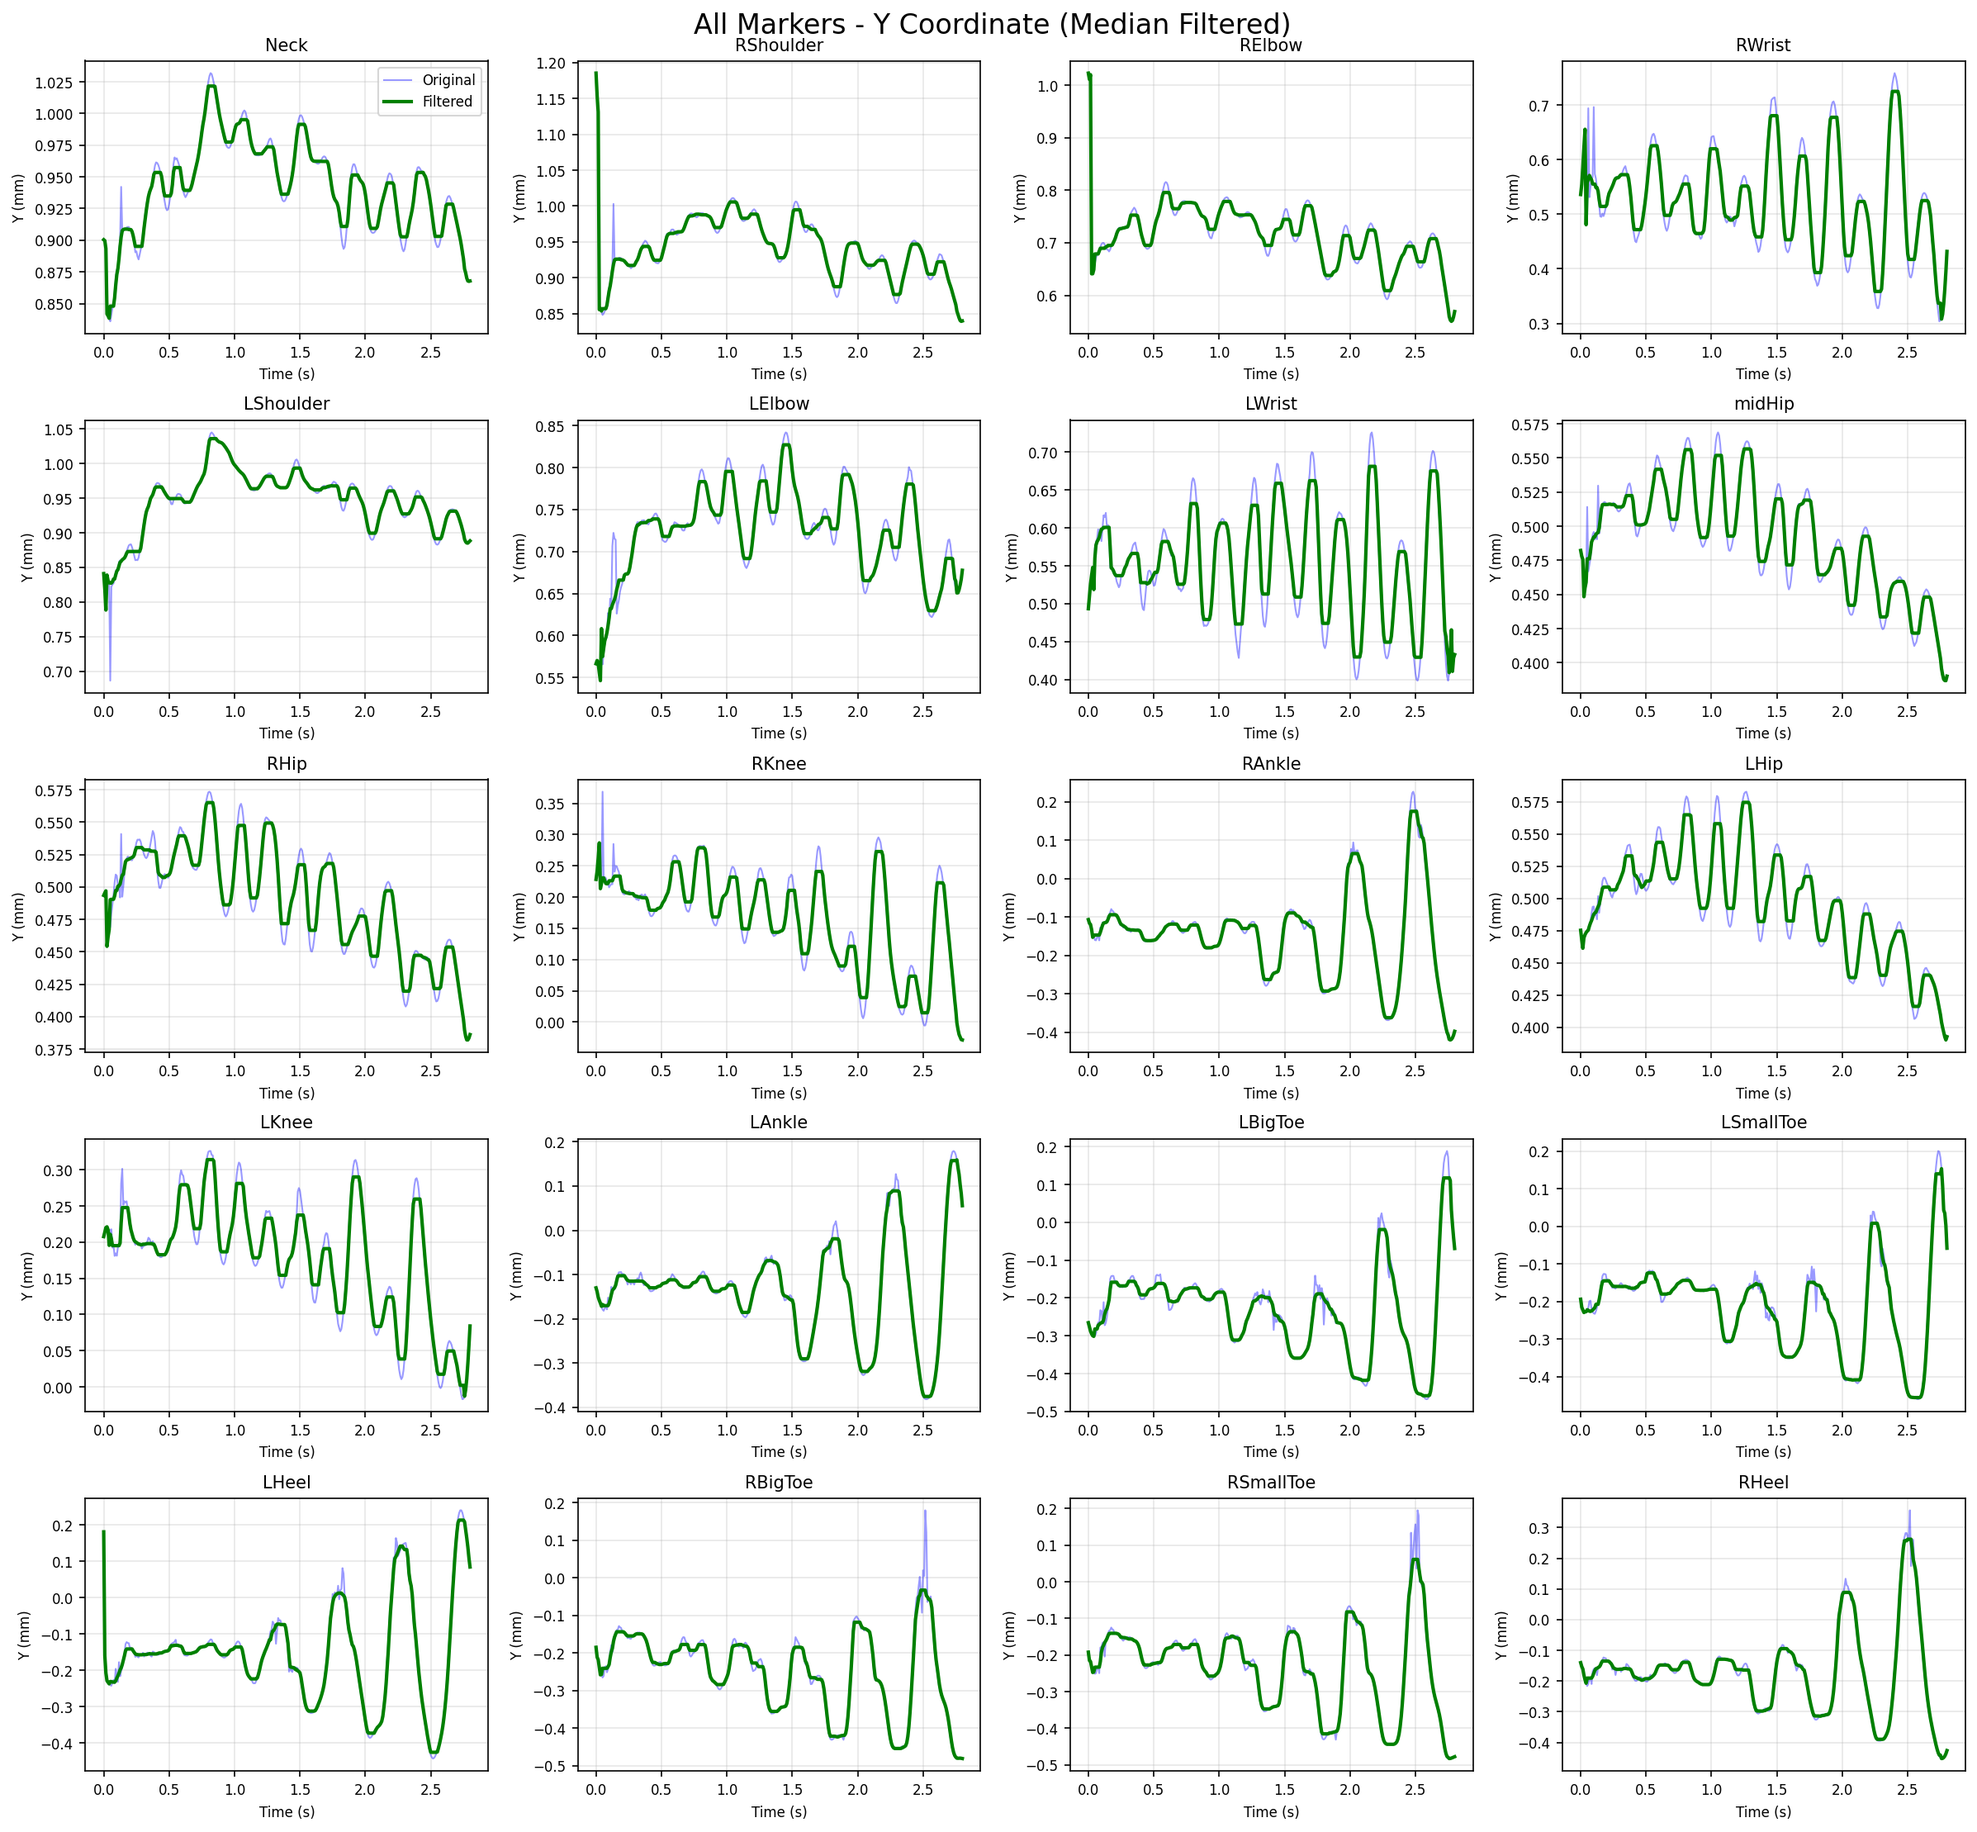
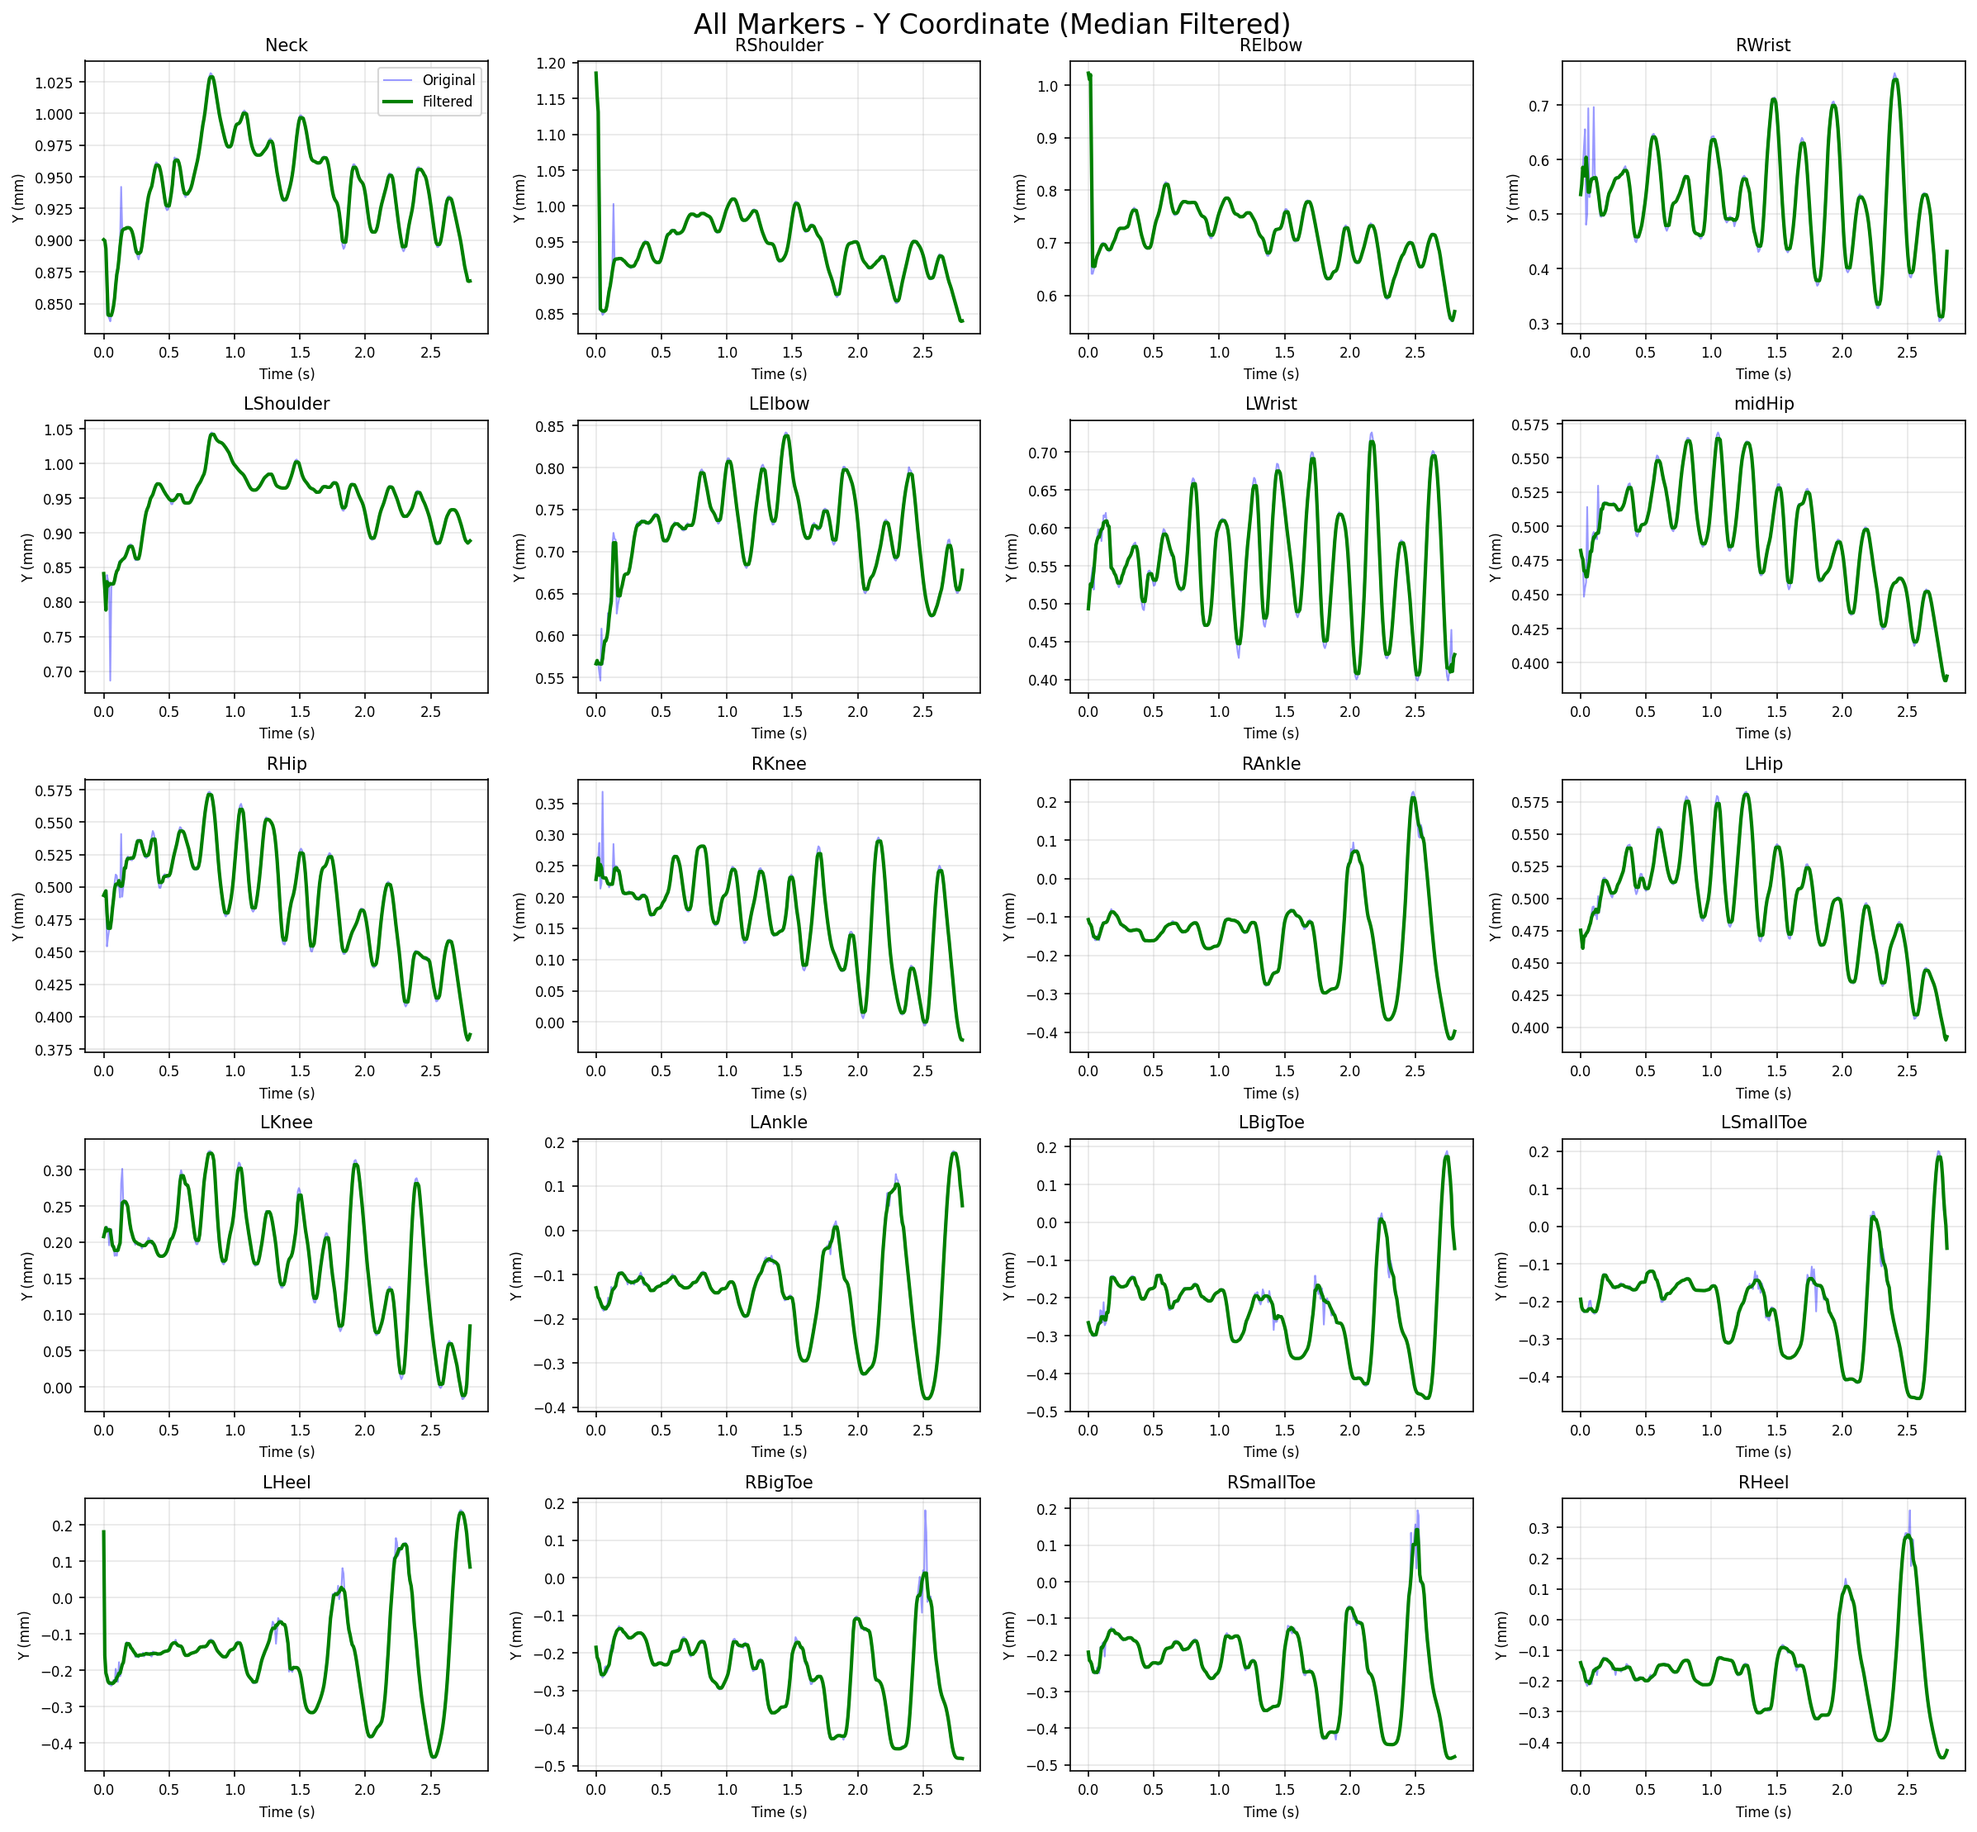
More median filter and adding it to main

diff --git a/utilsTRC.py b/utilsTRC.py
@@ -26,3 +26,73 @@ def trc_2_dict(trc_path):
         markers[name] = trc.marker(name)
     out['markers'] = markers
     return out
+
+def dict_2_trc(trc_file_path, data, time, output_path):
+    """
+    Write marker data from dictionary format back to TRC file.
+    
+    Parameters:
+    -----------
+    trc_file_path : str
+        Path to original TRC file (to copy header information)
+    data : dict
+        Dictionary containing 'time' and 'markers' keys
+    output_path : str
+        Path where the new TRC file will be saved
+    """
+    # Read original file to get header information
+    with open(trc_file_path, 'r') as f:
+        lines = f.readlines()
+    
+    # Extract header lines (first 5 lines typically)
+    header_lines = lines[:5]
+    
+    # Get data
+    time = time
+    # Get data
+    markers = data  # data is already the markers dictionary
+    marker_list = list(markers.keys())
+    
+    n_frames = len(time)
+    n_markers = len(marker_list)
+    
+    # Update header line 4 with correct marker count and names
+    # Format: Frame#  Time  marker1    marker1    marker1    marker2    marker2    marker2 ...
+    marker_names_line = "Frame#\tTime\t" + "\t\t\t".join(marker_list) + "\n"
+    header_lines[3] = marker_names_line
+    
+    # Update header line 5 with X, Y, Z labels
+    xyz_line = "\t\t" + "\t".join(["X" + str(i+1) + "\tY" + str(i+1) + "\tZ" + str(i+1) 
+                                    for i in range(n_markers)]) + "\n"
+    header_lines[4] = xyz_line
+    
+    # Update header line 3 with frame info
+    # Format: DataRate CameraRate NumFrames NumMarkers Units OrigDataRate OrigDataStartFrame OrigNumFrames
+    header_parts = header_lines[2].strip().split('\t')
+    if len(header_parts) >= 3:
+        header_parts[2] = str(n_frames)  # Update NumFrames
+        header_parts[3] = str(n_markers)  # Update NumMarkers
+        header_lines[2] = '\t'.join(header_parts) + '\n'
+    
+    # Write to new file
+    with open(output_path, 'w') as f:
+        # Write header
+        f.writelines(header_lines)
+        
+        # Write data
+        for frame_idx in range(n_frames):
+            # Frame number and time
+            line = f"{frame_idx + 1}\t{time[frame_idx]:.6f}\t"
+            
+            # Add marker coordinates
+            coords = []
+            for marker_name in marker_list:
+                marker_data = markers[marker_name][frame_idx, :]
+                coords.extend([f"{marker_data[0]:.6f}", 
+                              f"{marker_data[1]:.6f}", 
+                              f"{marker_data[2]:.6f}"])
+            
+            line += "\t".join(coords) + "\n"
+            f.write(line)
+    
+    print(f"Successfully saved filtered TRC file to: {output_path}")

diff --git a/utilsPlotting.py b/utilsPlotting.py
@@ -118,3 +118,66 @@ def plot_all_markers_all_coords(markers, filtered_all, time, marker_list,
             coord_idx=coord_idx,
             save_path=f'all_markers_{coord_name}_filtered.png' if save_path else None
         )
+
+def plot_all_markers_all_coords_one(markers, filtered_all, time, marker_list, 
+                                save_path=None):
+    """
+    Plot all markers with x, y, z coordinates on the same subplot.
+    x in red, y in green, z in blue
+    Dotted lines for pre-filtered data, solid lines for post-filtered data.
+    """
+    n_markers = len(marker_list)
+    
+    # Calculate grid dimensions
+    n_cols = 3
+    n_rows = int(np.ceil(n_markers / n_cols))
+    
+    # Create figure with subplots
+    fig, axes = plt.subplots(n_rows, n_cols, figsize=(15, 5 * n_rows))
+    
+    # Flatten axes array for easier indexing
+    if n_markers == 1:
+        axes = np.array([axes])
+    elif n_rows == 1:
+        axes = np.array(axes)
+    else:
+        axes = axes.flatten()
+    
+    # Colors for x, y, z
+    colors = ['red', 'green', 'blue']
+    coord_names = ['X', 'Y', 'Z']
+    
+    # Plot each marker
+    for marker_idx, marker_name in enumerate(marker_list):
+        ax = axes[marker_idx]
+        
+        # Plot each coordinate (x, y, z)
+        for coord_idx in range(3):
+            # Pre-filtered data (dotted line)
+            ax.plot(time, markers[marker_name][:, coord_idx], 
+                   linestyle=':', color=colors[coord_idx], 
+                   alpha=0.6, linewidth=1,
+                   label=f'{coord_names[coord_idx]} (pre-filter)')
+            
+            # Post-filtered data (solid line)
+            ax.plot(time, filtered_all[marker_name][:, coord_idx], 
+                   linestyle='-', color=colors[coord_idx], 
+                   linewidth=2,
+                   label=f'{coord_names[coord_idx]} (filtered)')
+        
+        ax.set_title(f'{marker_name}', fontsize=12, fontweight='bold')
+        ax.set_xlabel('Time (s)')
+        ax.set_ylabel('Position (mm)')
+        ax.legend(loc='best', fontsize=8)
+        ax.grid(True, alpha=0.3)
+    
+    # Hide any unused subplots
+    for idx in range(n_markers, len(axes)):
+        axes[idx].axis('off')
+    
+    plt.tight_layout()
+    
+    if save_path:
+        plt.savefig(save_path, dpi=300, bbox_inches='tight')
+        print(f"Saved plot to {save_path}")
+    

diff --git a/utilsMedian.py b/utilsMedian.py
@@ -19,8 +19,8 @@ def median_window_filter(x, window):
         y       <-  median filtered signal
     """
     if window % 2:
-        window = window - 1
-    win2 = int(window / 2)
+        window = window - 1 # Making the window even for equal points on left and right 
+    win2 = int(window / 2) # Now win2 is always an integer
     n = len(x)
     y = np.array(x, dtype=float)
     
@@ -50,7 +50,9 @@ def median_filter_trajectory(marker_data, window=7, return_outliers=False):
         Median filtered trajectory
     """
     marker_data = np.asarray(marker_data, dtype=float)
-    
+
+    print(marker_data.ndim, marker_data.shape)
+
     if marker_data.ndim != 2 or marker_data.shape[1] != 3:
         raise ValueError(f"Expected shape (n_frames, 3), got {marker_data.shape}")
     
@@ -97,8 +99,31 @@ def median_filter_all_markers(markers_dict, window=7, verbose=False):
     return filtered_markers
 
 
-# Test/demo code
-if __name__ == "__main__":
+import utilsTRC
+
+def median_filter_trc_file(input_trc_path, output_trc_path, window=7):
+    """
+    Apply median filter to all markers in a TRC file and save to a new file.
+    
+    Parameters:
+    -----------
+    input_trc_path : str
+        Path to input TRC file
+    output_trc_path : str
+        Path to output filtered TRC file
+    window : int
+        Window size for median filter
+    """
+    # Load TRC data
+    data = utilsTRC.trc_2_dict(input_trc_path)
+    time = data['time']
+    markers = data['markers']
+    
+    # Apply median filter to all markers
+    filtered_markers = median_filter_all_markers(markers, window=window, verbose=False)
+    
+    # Save filtered data to new TRC file
+    utilsTRC.dict_2_trc(input_trc_path, filtered_markers, time, output_trc_path)
     import matplotlib.pyplot as plt
     
     print("Testing median_window_filter...")

diff --git a/visualizeOpenPoseMarkers.py b/visualizeOpenPoseMarkers.py
@@ -14,10 +14,15 @@ time = data['time']
 markers = data['markers']
 marker_list = list(markers.keys())
 
-print("Time shape:", time.shape)
-print("Markers keys:", markers.keys())
+print("Time shape:", time.shape) # Ends up as (337,) in first example trial
+print("Markers keys:", markers.keys()) 
+print("Marker Example Shape:", markers[marker_list[0]].shape) # Ends up as (337, 3) in first example trial
 
-filtered_all = utilsMedian.median_filter_all_markers(markers, window=12, verbose=True)
+filtered_all = utilsMedian.median_filter_all_markers(markers, window=7, verbose=True)
+
+# Save filtered data to new TRC file
+output_path = trc_file_path.replace('.trc', '_median_filtered.trc')
+utilsTRC.dict_2_trc(trc_file_path, filtered_all, time, output_path)
 
 # Plot single marker
 utilsPlotting.plot_single_marker_xyz(
@@ -40,3 +45,12 @@ utilsPlotting.plot_all_markers_all_coords(
     markers, filtered_all, time, marker_list,
     save_path=True
 )
+
+# # Plot all the coordinates for a single marker
+# utilsPlotting.plot_all_markers_all_coords_one(
+#     markers, 
+#     filtered_all, 
+#     time, 
+#     marker_list,
+#     save_path='All_markers_all_coords.png'
+# )

diff --git a/main.py b/main.py
@@ -476,6 +476,17 @@ def main(sessionName, trialName, trial_id, cameras_to_use=['all'],
                                 keypointNames, frameRate=frameRate, 
                                 rotationAngles=rotationAngles)
     
+
+    # %%% Add in here to use median filter on the TRC file pre marker augmentation
+    from utilsMedian import median_filter_trc_file  # Assuming this function exists in UtilsMedian.py
+    
+    # Apply median filter to the TRC file
+    pathMedianFilteredTRC = pathOutputFiles[trialName].replace('.trc', '_median_filtered.trc')
+    median_filter_trc_file(pathOutputFiles[trialName], pathMedianFilteredTRC, window=7)  # Adjust window as needed
+    
+    # Update pathOutputFiles to use the filtered file for augmentation
+    pathOutputFiles[trialName] = pathMedianFilteredTRC
+    
     # %% Augmentation.
     
     # Get augmenter model.

diff --git a/ReproducePaperResults/labValidationVideosToKinematicsNoStatic.py b/ReproducePaperResults/labValidationVideosToKinematicsNoStatic.py
@@ -30,7 +30,7 @@ from utils import importMetadata
 #   C:/Users/opencap/Documents/LabValidation_withVideos/subject2
 #   C:/Users/opencap/Documents/LabValidation_withVideos/subject3
 #   ...
-subject_numbers = [5]
+subject_numbers = [2]
 sessionNames = [f'subject{num}' for num in subject_numbers] #['subject2']#,'subject4', 'subject7', 'subject8', 'subject9', 'subject10', 'subject11', 'subject13', 'subject14']
 
 # %% Excel Progress Tracking Setup
